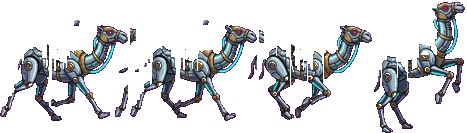
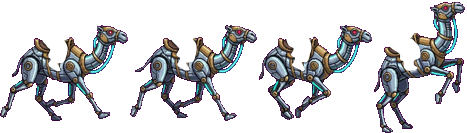
Clean up sprite sheets: remove magenta key leftovers, rejoin split frames, repack with 2px padding
- Removed leftover magenta background from characters, effects and edges.
- Art pieces sliced into neighbouring frames returned to their own frame;
  leftovers of other poses and edge slivers removed.
- All sheets repacked with 2px padding, keeping the bottom-centre pivot.
- k7 down pose (k7_8_0) rebuilt as one frame; it was split in two.
- Riderless camel (atlas9) redrawn by Hamza.
- Local backups in sprites_backup/ are git-ignored.

diff --git a/PROJECT.md b/PROJECT.md
@@ -38,6 +38,14 @@ RAÏ NOIR is a single-file browser arcade game (side-scrolling beat 'em up) them
   - the `willReadFrequently` warning.
 - Arabic: 558 new darija strings were added to `AR_T`, and `text()`/`wrapText()` now set `ctx.direction` for Arabic so mixed text is in the right order. Cine scenes show the Arabic as a subtitle above the English line, which is the original design.
 
+- Sprite pass done 2026-10-16:
+  - Magenta key leftovers were removed with tlween (magic wand plus colour range) from atlas, atlas3, atlas4, atlas5, atlas8 and atlas10.
+  - All sheets except atlas6, atlas7, atlas9 and props were repacked with 2px padding. Art pieces that had been sliced into a neighbouring frame went back to their own frame, and leftovers of other poses that were cut by the frame's side edge were dropped. Each frame keeps its bottom-centre pivot.
+  - Backups: `sprites_backup/` holds the originals; `sprites_backup/after_magenta/` holds the state before the repack.
+  - Not fixed: the riderless camel (atlas9 `camelx_*`) has a hole where the rider was erased, and it needs redrawing. A few small side-cut pieces were kept on purpose (cheb_5 shoe, oran_4 feet). cheb_6, aicha_3, boss_7_1, boss_7_3, jnoun_3 and atlas8 k7_3 sit 1-4px higher because a returned piece reaches below the old bottom.
+
+- Sprite pass 2 (2026-10-17): every loose piece in every frame was reviewed by eye. 165 leftover pieces (neighbour limbs, slivers, specks under 8px at the frame side) were cleared in tlween, and the magenta edge fringe was removed from atlas14, atlas (k7), atlas4 (mother) and atlas2 (khamaseen). Kept on purpose: effects, sparks, smoke, sound waves, props and cords. The backup before this pass is `sprites_backup/after_repack/`.
+
 ### FLAG: design questions, parked until Hamza/Lennart decide
 - The server farm (`SC.payne`) has no game over: lives reach 0 and the run continues.
 - The shooter (`SC.shoot`) gives unlimited free continues and never reaches `SC.cont`.
